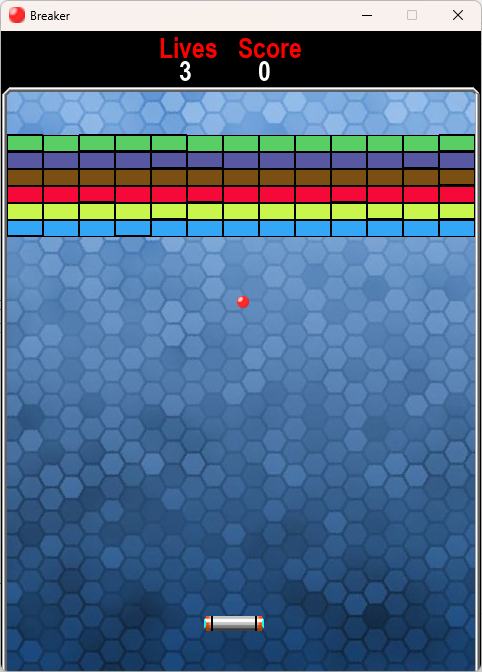
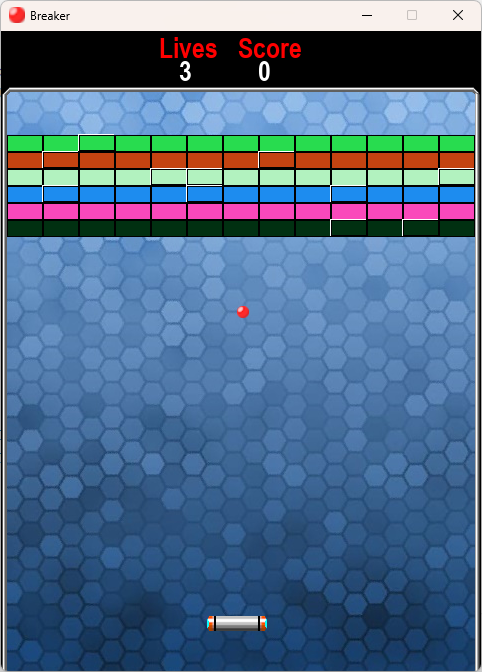
White outline dense bricks

diff --git a/main.py b/main.py
@@ -126,7 +126,8 @@ while running:
             pygame.draw.rect(screen, "black", (block[0]-1, block[1]-1, 36, 17))
             pygame.draw.rect(screen, brick_color, (block[0], block[1], 34, 15))
         elif block[3] == 2:
-            pygame.draw.rect(screen, "black", (block[0]-1, block[1]-2, 36, 18))
+            pygame.draw.rect(screen, "white", (block[0]-2, block[1]-2, 36, 17))
+            pygame.draw.rect(screen, "black", (block[0]-1, block[1]-1, 36, 17))
             pygame.draw.rect(screen, brick_color, (block[0], block[1], 34, 14))
 
     # --- PLAYER/BALL DRAW ---
